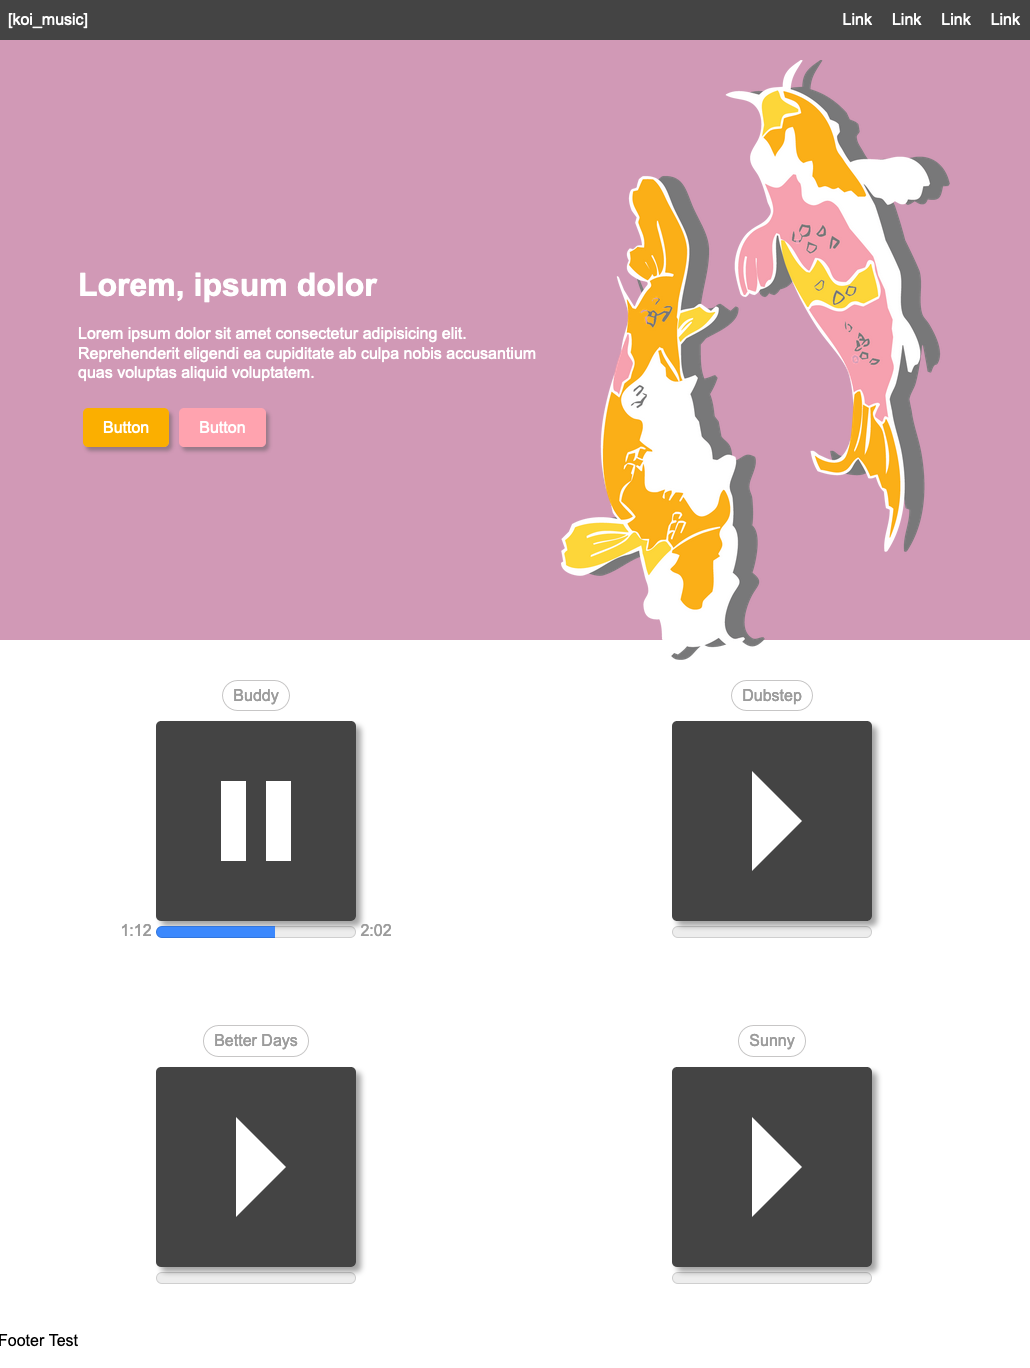
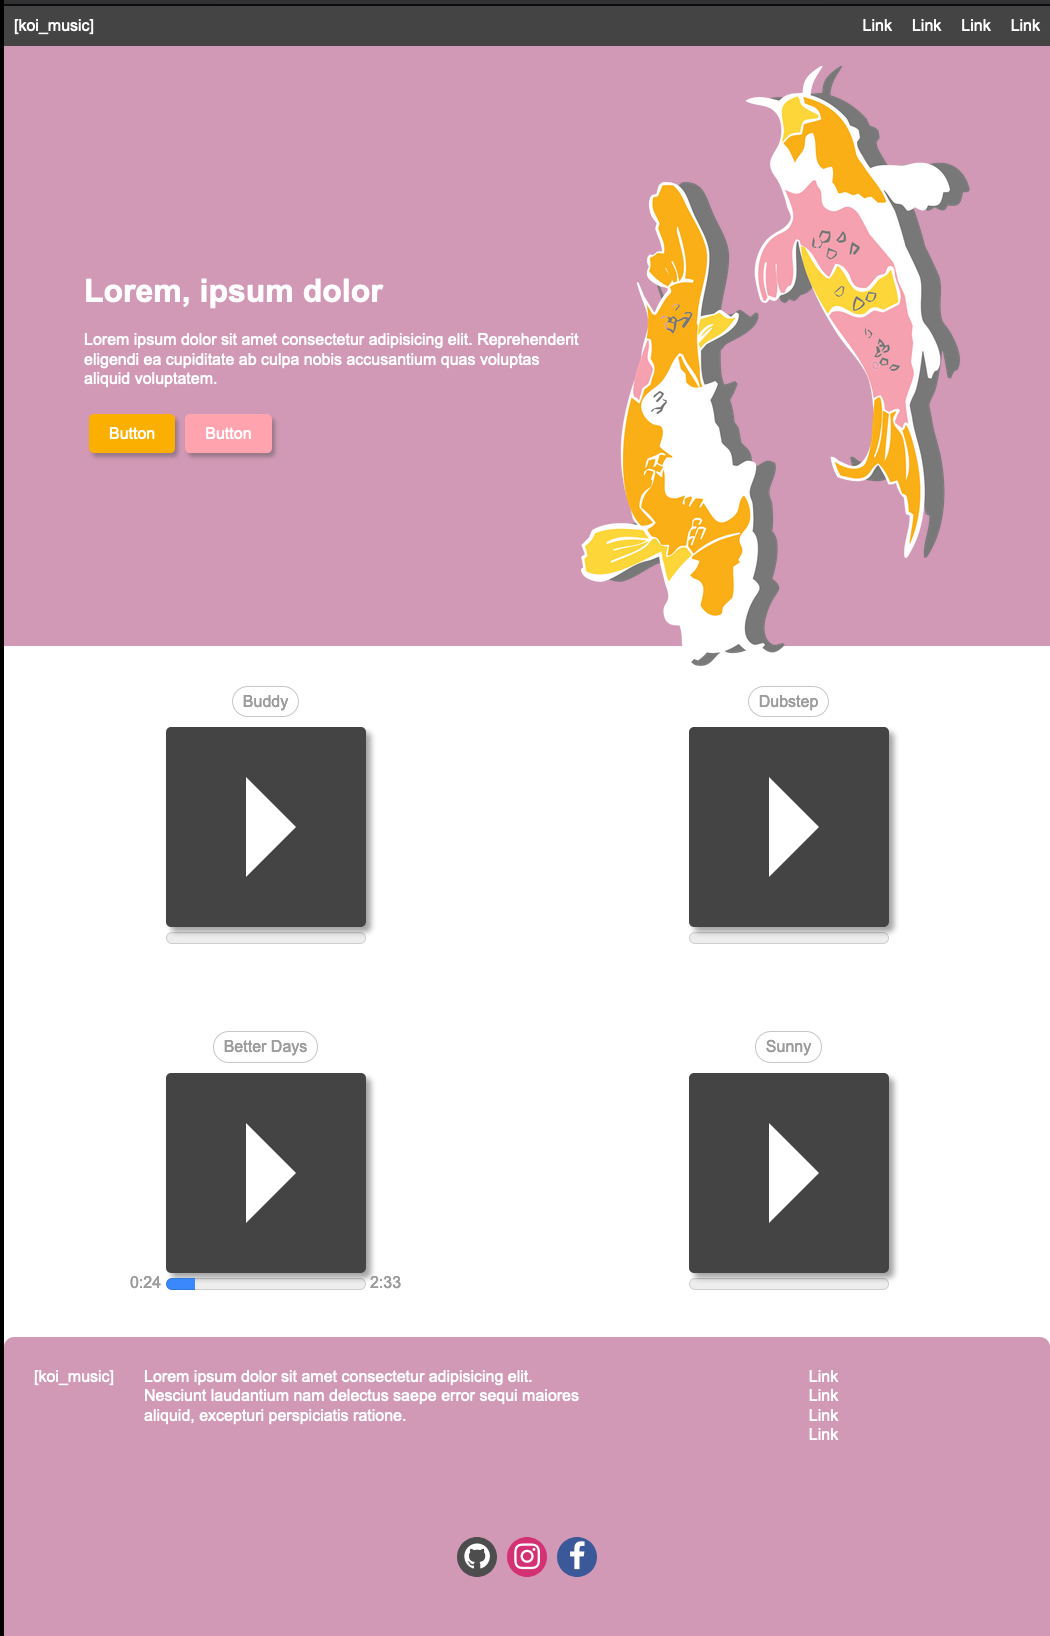
add footer

diff --git a/css/App.css b/css/App.css
@@ -11,6 +11,14 @@ a {
   text-decoration: none;
 }
 
+a:hover {
+  color: #FBAF00;
+}
+
+li {
+  list-style-type: none;
+}
+
 nav {
   background-color: #444444;
   height: auto;
@@ -38,10 +46,6 @@ nav ul div {
 
 nav a {
   padding: 10px;
-}
-
-nav a:hover {
-  color: #FBAF00;
 }
 
 .showcase {
@@ -148,6 +152,76 @@ nav a:hover {
   border-right: 25px solid #fff;
   left: 65px;
   top: 60px;
+}
+
+footer {
+  background-color: #D199B6;
+  color: white;
+  border-radius: 10px 10px 0 0;
+}
+
+footer .container {
+  display: -webkit-box;
+  display: -ms-flexbox;
+  display: flex;
+  height: 200px;
+}
+
+footer .container div {
+  padding-top: 30px;
+}
+
+footer .container .logo {
+  -webkit-box-flex: 0;
+      -ms-flex: 0 1 0px;
+          flex: 0 1 0;
+  padding: 30px;
+}
+
+footer .container .col-1 {
+  -webkit-box-flex: 1;
+      -ms-flex: 1 1 0px;
+          flex: 1 1 0;
+}
+
+footer .container .col-2 {
+  -webkit-box-flex: 1;
+      -ms-flex: 1 1 0px;
+          flex: 1 1 0;
+  text-align: center;
+}
+
+footer .soc-media {
+  height: 100px;
+  display: -webkit-box;
+  display: -ms-flexbox;
+  display: flex;
+  -webkit-box-pack: center;
+      -ms-flex-pack: center;
+          justify-content: center;
+  font-size: 30px;
+}
+
+footer .soc-media a {
+  text-align: center;
+  padding-top: 5px;
+  background-color: #548e97;
+  width: 40px;
+  height: 40px;
+  margin: 0 5px;
+  border-radius: 20px;
+}
+
+footer .soc-media .fa-facebook {
+  background: #3B5998;
+}
+
+footer .soc-media .fa-instagram {
+  background: #d43175;
+}
+
+footer .soc-media .fa-github {
+  background: #4d4d4d;
 }
 
 @media (max-width: 700px) {

diff --git a/src/scss/App.scss b/src/scss/App.scss
@@ -14,6 +14,13 @@ a {
   color: $text-color;
   text-decoration: none;
 }
+a:hover {
+  color: $primary-color;
+}
+
+li {
+  list-style-type: none;
+}
 
 
 nav {
@@ -41,9 +48,7 @@ nav {
     padding: 10px;
   }
 
-  a:hover {
-    color: $primary-color;
-  }
+  
 
 }
 
@@ -147,6 +152,73 @@ nav {
     }
   }
 
+}
+
+footer {
+  background-color: $color-four;
+  color: $text-color;
+  border-radius: 10px 10px 0 0;
+  
+
+  .container {
+    display: flex;
+    height: 200px;
+
+    div {
+      padding-top: 30px;
+      // flex-basis: 0;
+      // background-color: rgb(47, 112, 155);
+      // border: 5px solid greenyellow;
+    }
+  
+    .logo {
+      flex: 0 1 0;
+      padding: 30px;
+    }
+  
+    .col-1 {
+      flex: 1 1 0;
+      // align-self: flex-end;
+    }
+  
+    .col-2 {
+      flex: 1 1 0;
+      text-align: center;
+
+
+    }
+  }
+
+  .soc-media {
+    height: 100px;
+    display: flex;
+    justify-content: center;
+    font-size: 30px;
+    // background-color: blanchedalmond;
+    
+    a {
+      text-align: center;
+      padding-top: 5px;
+      background-color: #548e97;
+      width: 40px;
+      height: 40px;
+      margin: 0 5px;
+      border-radius: 20px;
+
+    }
+
+    .fa-facebook {
+      background: #3B5998;
+    }
+
+    .fa-instagram {
+      background: #d43175;
+    }
+
+    .fa-github {
+      background: rgb(77, 77, 77)
+    }
+  }
 }
 
 @import 'mobile';

diff --git a/public/index.html b/public/index.html
@@ -2,28 +2,15 @@
 <html lang="en">
   <head>
     <meta charset="utf-8" />
-    <link rel="icon" href="%PUBLIC_URL%/favicon.ico" />
     <meta name="viewport" content="width=device-width, initial-scale=1" />
     <meta name="theme-color" content="#000000" />
     <meta
       name="description"
       content="Web site created using create-react-app"
     />
+    <link rel="stylesheet" href="https://cdnjs.cloudflare.com/ajax/libs/font-awesome/4.7.0/css/font-awesome.min.css">
     <link rel="apple-touch-icon" href="%PUBLIC_URL%/logo192.png" />
-    <!--
-      manifest.json provides metadata used when your web app is installed on a
-      user's mobile device or desktop. See https://developers.google.com/web/fundamentals/web-app-manifest/
-    -->
     <link rel="manifest" href="%PUBLIC_URL%/manifest.json" />
-    <!--
-      Notice the use of %PUBLIC_URL% in the tags above.
-      It will be replaced with the URL of the `public` folder during the build.
-      Only files inside the `public` folder can be referenced from the HTML.
-
-      Unlike "/favicon.ico" or "favicon.ico", "%PUBLIC_URL%/favicon.ico" will
-      work correctly both with client-side routing and a non-root public URL.
-      Learn how to configure a non-root public URL by running `npm run build`.
-    -->
     <title>Koi Music</title>
   </head>
   <body>

diff --git a/src/components/Footer.js b/src/components/Footer.js
@@ -2,9 +2,32 @@ import React from 'react'
 
 function Footer() {
   return(
-    <div>
-      Footer Test
-    </div>
+    <footer>
+      <div className="container"> 
+        <div className="logo">
+          <a href="http://localhost:3000/">[koi_music]</a>
+        </div>
+        <div className="col-1">
+          Lorem ipsum dolor sit amet consectetur
+          adipisicing elit. Nesciunt laudantium 
+          nam delectus saepe error sequi maiores 
+          aliquid, excepturi perspiciatis ratione.
+        </div>
+        <div className="col-2">
+          <ul>
+            <li><a href="http://localhost:3000/">Link</a></li>
+            <li><a href="http://localhost:3000/">Link</a></li>
+            <li><a href="http://localhost:3000/">Link</a></li>
+            <li><a href="http://localhost:3000/">Link</a></li>
+          </ul>
+        </div>
+      </div>
+      <div className="soc-media">
+        <a className="fa fa-github" href="http://localhost:3000/"></a>
+        <a className="fa fa-instagram" href="http://localhost:3000/"></a>
+        <a className="fa fa-facebook" href="http://localhost:3000/"></a>
+      </div>
+    </footer>
   )
 }
 
